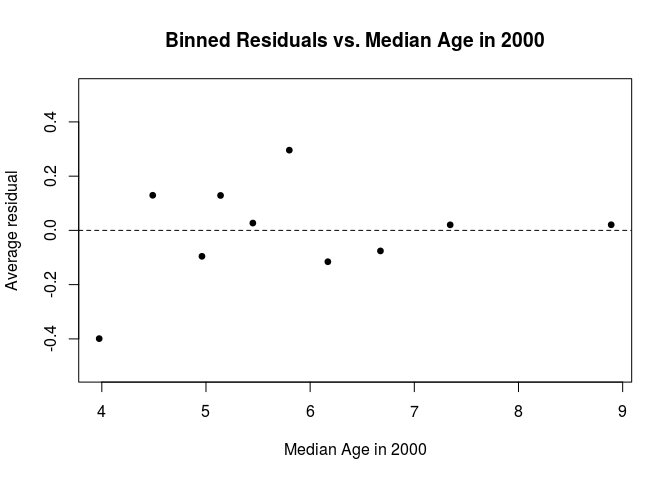
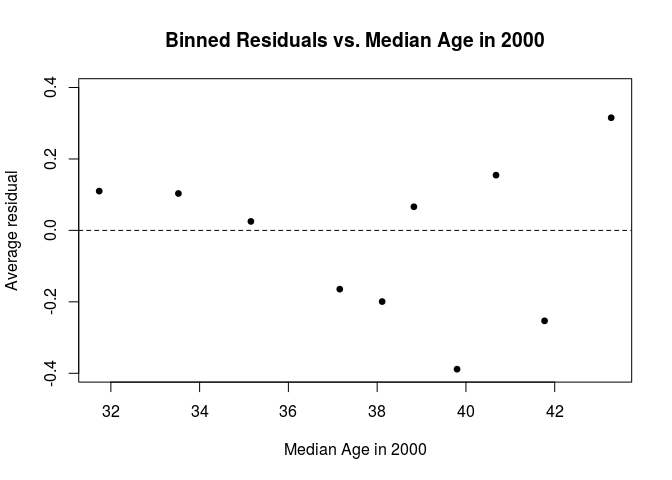
After office hours

diff --git a/hw-05-logistic.md b/hw-05-logistic.md
@@ -11,6 +11,7 @@ library(knitr)
 library(broom)
 library(pROC)
 library(skimr)
+library(rms)
 ```
 
 ``` r
@@ -147,6 +148,22 @@ mn08 <- mn08 %>%
                                pct_Obama <= 50 ~ 0))
 ```
 
+``` r
+mn08 %>%
+  count(obama_win) %>%
+  mutate(prop = n/sum(n))
+```
+
+    ## # A tibble: 2 x 3
+    ##   obama_win     n  prop
+    ##       <dbl> <int> <dbl>
+    ## 1         0    45 0.517
+    ## 2         1    42 0.483
+
+Out of the 87 counties in Minnesota, Obama won the majority vote in 42
+and lost in 45. He won in 0.48 of the counties and lost in 0.52 of the
+counties.
+
 #### Exploratory Data Analysis
 
 Initially, we can eliminate the variables County, Obama, McCain,
@@ -174,13 +191,13 @@ skim(mn08)
     ##  n obs: 87 
     ##  n variables: 14 
     ## 
-    ## ── Variable type:factor ─────────────────────────────────────────────────────────────────────
+    ## ── Variable type:factor ───────────────────────────────────────────────────────────
     ##  variable missing complete  n n_unique                     top_counts
     ##    County       0       87 87       87 Ait: 1, Ano: 1, Bec: 1, Bel: 1
     ##  ordered
     ##    FALSE
     ## 
-    ## ── Variable type:integer ────────────────────────────────────────────────────────────────────
+    ## ── Variable type:integer ──────────────────────────────────────────────────────────
     ##     variable missing complete  n     mean       sd    p0     p25   p50
     ##       McCain       0       87 87 14659.77 30265.89   843  2815.5  6315
     ##     medHHinc       0       87 87 47813.24  9902.28 34503 41954   44602
@@ -192,7 +209,7 @@ skim(mn08)
     ##  11812 420958 ▇▁▁▁▁▁▁▁
     ##  21611 652015 ▇▁▁▁▁▁▁▁
     ## 
-    ## ── Variable type:numeric ────────────────────────────────────────────────────────────────────
+    ## ── Variable type:numeric ──────────────────────────────────────────────────────────
     ##     variable missing complete  n  mean    sd    p0   p25   p50   p75
     ##   Gini_Index      40       47 87  0.4   0.03  0.34  0.39  0.4   0.42
     ##   medAge2000       0       87 87 38.13  3.58 29.9  35.2  38.4  40.65
@@ -227,7 +244,7 @@ multicollinearities.
 pairs(data = mn08, obama_win ~ pct_rural + medHHinc + unemp_rate + pct_poverty + medAge2007 + medAge2000 + Gini_Index + pct_native + total_votes, lower.panel = NULL)
 ```
 
-![](hw-05-logistic_files/figure-gfm/pairs-1.png)<!-- -->
+![](hw-05-logistic_files/figure-gfm/pairs1-1.png)<!-- -->
 
 ``` r
 mn08 %>%
@@ -434,8 +451,11 @@ regfit_backward <- step(full_model, direction = "backward")
     ## - pct_poverty  1   113.76 121.76
 
 We conduct backwards selection using AIC to select the model with the
-lowest AIC. This final model includes the predictor variables
-medAge2000, unemp\_rate, total\_votes, and
+lowest AIC. In this case, since the number of predictor variables is not
+greater than 8, using BIC (which penalizes for n\>8 to favor more
+parsimonious models) would not make much of a difference. This final
+model includes the predictor variables medAge2000, unemp\_rate,
+total\_votes, and
 pct\_poverty.
 
 ``` r
@@ -456,6 +476,22 @@ unemp\_rate + 0.000001 \* total\_votes + 0.03892 \* pct\_poverty
 
 #### Model Assessment
 
+We look at the variance inflation factor (VIF) to detect
+multicollinearity. None of the VIFs are greater than 10, so we do not
+have multicollinearity in the final model.
+
+``` r
+tidy(vif(final_model))
+```
+
+    ## # A tibble: 4 x 2
+    ##   names           x
+    ##   <chr>       <dbl>
+    ## 1 medAge2000   1.21
+    ## 2 unemp_rate   1.12
+    ## 3 total_votes  1.11
+    ## 4 pct_poverty  1.14
+
 ``` r
 model_aug <- augment(final_model)
 ```
@@ -471,7 +507,7 @@ arm::binnedplot(x = model_aug$.fitted,
 ![](hw-05-logistic_files/figure-gfm/binned-resid-1.png)<!-- -->
 
 ``` r
-arm::binnedplot(x = model_aug$unemp_rate,
+arm::binnedplot(x = model_aug$medAge2000,
                 y = model_aug$.resid,
                 xlab= "Median Age in 2000",
                 main = "Binned Residuals vs. Median Age in 2000",
@@ -491,7 +527,7 @@ arm::binnedplot(x = model_aug$unemp_rate,
 ![](hw-05-logistic_files/figure-gfm/unemp-resid-1.png)<!-- -->
 
 ``` r
-arm::binnedplot(x = model_aug$unemp_rate,
+arm::binnedplot(x = model_aug$total_votes,
                 y = model_aug$.resid,
                 xlab= "Total Votes",
                 main = "Binned Residuals vs. Total Votes",
@@ -510,11 +546,13 @@ arm::binnedplot(x = model_aug$pct_poverty,
 
 ![](hw-05-logistic_files/figure-gfm/poverty-resid-1.png)<!-- -->
 
-The binned residuals vs. predicted probabilities and the continuous
-quantitiative predictor variables in the final model (medAge2000,
-unemp\_rate, total\_votes, and pct\_poverty) are randomly scattered
-around 0 and have small magnitudes close to 0. Thus, the final model is
-an appropriate fit for the data.
+The binned residuals vs. predicted probabilities and binned residuals
+vs. medAge2000, unemp\_rate, and pct\_poverty are randomly scattered
+around 0 and have small magnitudes close to 0 so they do not violate
+linearity. The binned residuals vs. total\_votes has a high outlier
+which could be evaluated in further studies. However, overall, the final
+model does not violate any assumptions, making it an appropriate fit for
+the data.
 
 #### Analysis
 
@@ -533,16 +571,24 @@ calc_auc(roccurve)$AUC
 
     ## [1] 0.6814815
 
+The area under the ROC curve indicates how likely you are able to
+differentiate between trues and falses (predicting a win correctly
+vs. predicting a win incorrectly). A logistic model fits well if the
+AUC is close to 1. For predicting situations as complex as political
+elections, 0.68 is a relatively high proportion, showing the model
+decently differentiates between predicting wins.
+
 From the model, we decide on a threshold probability of 0.503, with a
-false positive rate of 0.4 and a true positive rate of 0.6 because this
-is the point on the ROC curve closest to the top left corner (true
-positive rate of 1).
+false positive rate (incorrectly predict Obama’s win) of 0.4 and a true
+positive rate (correctly predict Obama’s win) of 0.6 because this is the
+point on the ROC curve closest to the top left corner (true positive
+rate of 1) where all wins for Obama are predicted correctly.
 
 In the 2020 election, if the predicted probability of the Democratic
-candidate winning in a county is above 0.503, the candidate should
-allocate resources to trying to win that county. However, if the
-predicted probability of the Democratic candidate winning in a county is
-below 0.503, the candidate should allocate little to no resources since
-they are not likely to win the majority vote.
+candidate winning in a county is above the threshold of 0.503, the
+candidate should allocate resources to trying to win that county.
+However, if the predicted probability of the Democratic candidate
+winning in a county is below 0.503, the candidate should allocate little
+to no resources since they are not likely to win the majority vote.
 
 ### Overall
